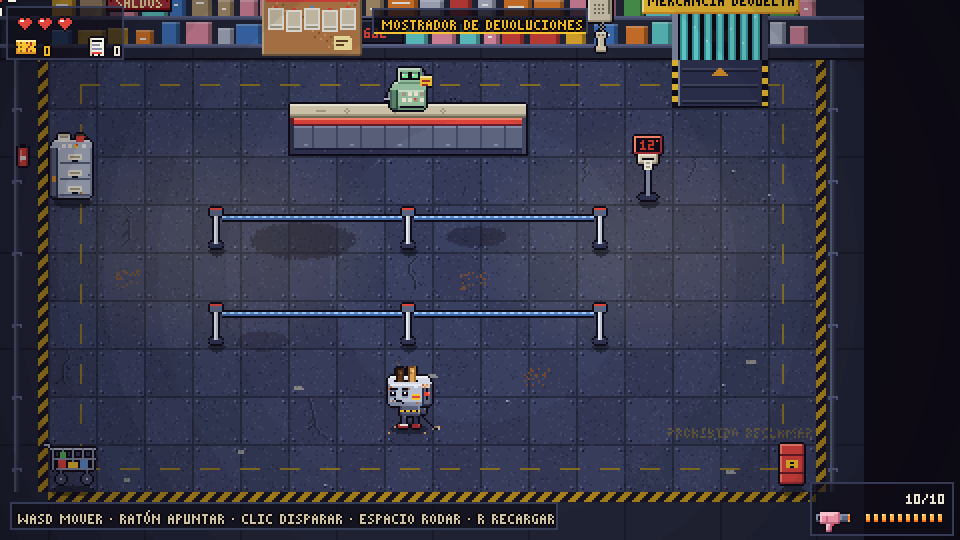
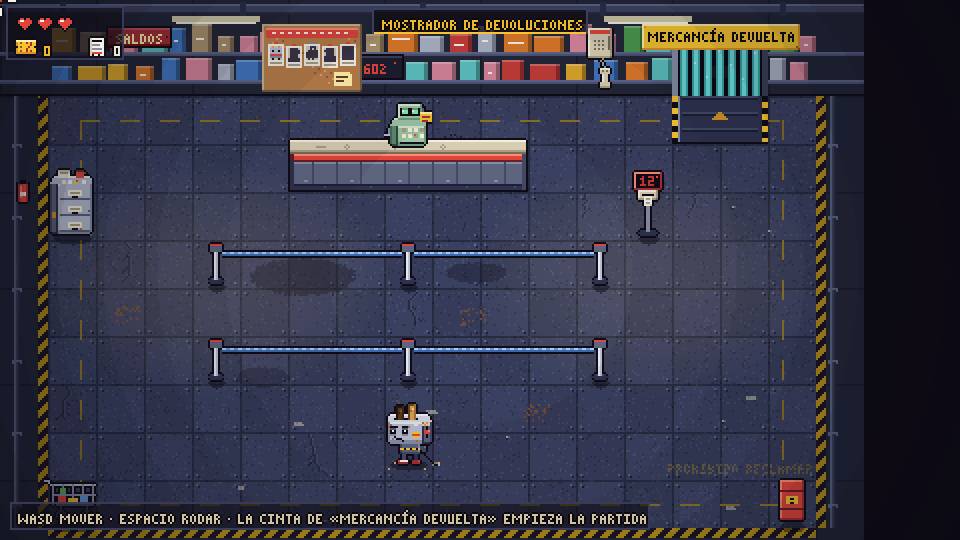
M9 (8): repaso del Mostrador (cámara arriba, sin munición, ayuda propia, el bot lo cruza); M9 terminado
Claude-Session: https://claude.ai/code/session_01LyCe1Q6iHwzEQqgL4r5GuZ

diff --git a/src/sim/bot.ts b/src/sim/bot.ts
@@ -2,7 +2,8 @@
 // Used by `npm run bot` and by tests to measure balance and detect hangs.
 import { Rng } from './rng.ts';
 import { ACTIVE_ITEMS } from '../data/items.ts';
-import { FROST_FLAT, HAND_HEIGHT, isRolling, PLAYER_HURT_Y, type Input, type World } from './world.ts';
+import { checkInvariants, createWorld, DT, FROST_FLAT, HAND_HEIGHT, isRolling, leaveHub, NO_INPUT, nearStation, PLAYER_HURT_Y, step } from './world.ts';
+import type { Input, World } from './world.ts';
 import { isWallAt, TILE } from './room.ts';
 import { blockedTiles, clearLine, doorGoal, nextDoor, steer, type Point } from './nav.ts';
 
@@ -335,4 +336,58 @@ export class Bot {
       swap,
     };
   }
+}
+
+/** What happened when the bot crossed the Mostrador (see crossHub). */
+export interface HubCrossing {
+  /** The run that starts on the conveyor, or null if it never got there. */
+  run: World | null;
+  /** Stations stood at, in the order visited. */
+  visited: string[];
+  seconds: number;
+  errors: string[];
+}
+
+/**
+ * The bot goes round the Mostrador before a run, like a player would: it stands at every station
+ * (the standing ones from in front, the ones on the wall from below them), then walks onto the
+ * conveyor. Fails if it gets stuck, steps on the conveyor on the way, something shoots or an
+ * invariant breaks. The run it starts is the floor 1 of `seed` (as createWorld would make it).
+ */
+export function crossHub(seed: string, opts: { chatarrero?: boolean } = {}): HubCrossing {
+  const w = createWorld({ seed: 'mostrador', hub: { chatarrero: !!opts.chatarrero } });
+  const r = w.player.def.footRadius;
+  const blocked = blockedTiles(w, r);
+  const visited: string[] = [];
+  const errors: string[] = [];
+  const walk = (goal: Point, done: () => boolean, label: string): boolean => {
+    for (let i = 0; i < 20 / DT; i++) {
+      if (done()) return true;
+      const p = w.player;
+      const to = steer(w, goal, r, blocked);
+      const dx = to.x - p.x;
+      const dy = to.y - p.y;
+      const d = Math.hypot(dx, dy) || 1;
+      step(w, { ...NO_INPUT, moveX: dx / d, moveY: dy / d });
+      if (w.bullets.length > 0) errors.push('en el Mostrador sale una bala');
+      for (const e of checkInvariants(w)) errors.push(`Mostrador: ${e}`);
+      if (errors.length) return false;
+    }
+    errors.push(`el bot no llega a ${label} en el Mostrador (se queda en ${w.player.x.toFixed(0)},${w.player.y.toFixed(0)})`);
+    return false;
+  };
+  for (const st of w.room.stations) {
+    const standing = w.room.props.some((p) => p.x === st.x && p.y === st.y);
+    if (!walk({ x: st.x, y: standing ? st.y + 10 : st.y + 6 }, () => nearStation(w)?.kind === st.kind, st.kind)) break;
+    visited.push(st.kind);
+    if (w.leftHub) {
+      errors.push(`de camino a ${st.kind} el bot pisó la cinta`);
+      break;
+    }
+  }
+  const b = w.room.belt!;
+  if (!errors.length) walk({ x: b.x + b.w / 2, y: b.y + b.h / 2 }, () => w.leftHub, 'la cinta');
+  const run = errors.length ? null : leaveHub(w, seed);
+  if (!errors.length && !run) errors.push('la cinta no empieza la partida');
+  return { run, visited, seconds: w.tick * DT, errors };
 }

diff --git a/tools/bot.ts b/tools/bot.ts
@@ -2,7 +2,7 @@
 // exceptions, broken invariants, non-determinism or a bot that gets stuck for good.
 import { mkdirSync, writeFileSync } from 'node:fs';
 import { join } from 'node:path';
-import { Bot } from '../src/sim/bot.ts';
+import { Bot, crossHub } from '../src/sim/bot.ts';
 import { checkInvariants, createWorld, DT, frostSlow, nextFloor, step, worldHash, type World } from '../src/sim/world.ts';
 import { ROOT } from './lib/deps.ts';
 
@@ -54,6 +54,9 @@ export interface Floor2Report {
 
 export interface FloorReport {
   plantas: number;
+  /** Runs started from the Mostrador: the bot stands at every station, then takes the conveyor (%), and the mean seconds it takes. */
+  cruzaMostrador: number;
+  segundosMostrador: number;
   planta2?: Floor2Report;
   /** Floors whose every room (but the secret one) the bot walks into, with nothing able to hurt it: must be 100 %. */
   recorridoSinDanio: number;
@@ -388,6 +391,8 @@ export function runFloors(floors: number, maxSeconds = 600): { report: FloorRepo
   let cleared2 = 0;
   let hurts2 = 0;
   const rooms2: number[] = [];
+  let crossed = 0;
+  let hubT = 0;
   for (let i = 0; i < floors; i++) {
     const a = playFloor(`planta-${i}`, maxSeconds, true);
     if (a.explored) walked++;
@@ -398,7 +403,16 @@ export function runFloors(floors: number, maxSeconds = 600): { report: FloorRepo
       errors.push(...a2.errors);
     }
     walkT += a.seconds;
-    const b = playFloor(`planta-${i}`, maxSeconds, false, true);
+    // The whole run starts in the Mostrador, as in the game (half of them with the Chatarrero there).
+    const hub = crossHub(`planta-${i}`, { chatarrero: i % 2 === 1 });
+    if (hub.errors.length) {
+      failed++;
+      errors.push(...hub.errors);
+    } else {
+      crossed++;
+      hubT += hub.seconds;
+    }
+    const b = playFloor(`planta-${i}`, maxSeconds, false, true, 1, hub.run ?? undefined);
     if (b.won) {
       won++;
       wonT += b.seconds;
@@ -467,6 +481,8 @@ export function runFloors(floors: number, maxSeconds = 600): { report: FloorRepo
   return {
     report: {
       plantas: floors,
+      cruzaMostrador: pct(crossed),
+      segundosMostrador: crossed ? one(hubT / crossed) : 0,
       planta2,
       recorridoSinDanio: pct(walked),
       segundosRecorrido: one(walkT / floors),
@@ -593,6 +609,7 @@ if (import.meta.main) {
         `el ${pl.conActivo} % con objeto activo, ${pl.usosActivo} usos por planta · el ${pl.conSinergia} % con alguna sinergia · ${pl.tickets} tickets y ${pl.cofres} cofres abiertos por planta · ` +
         `compra ${pl.compras} cosas en la tienda (${pl.gastoTienda} cupones) por planta`,
     );
+    console.log(`Mostrador · el bot pasa por todo y coge la cinta en el ${pl.cruzaMostrador} % de las partidas, en ${pl.segundosMostrador} s`);
   }
   const p2 = pl.planta2;
   if (pl.plantas && p2) {

diff --git a/tests/textos.test.ts b/tests/textos.test.ts
@@ -10,6 +10,9 @@ import { ROOMS } from '../src/data/rooms.ts';
 import { DUMMIES, PROPS } from '../src/data/props.ts';
 import { CHARACTERS } from '../src/data/characters.ts';
 import { GOOD_NAMES, SHOPKEEPER } from '../src/data/shop.ts';
+import { CAJA, CHATARRERO, TELEFONO, TURNOS } from '../src/data/dialogues.ts';
+import { LORE } from '../src/data/lore.ts';
+import { ROSTER } from '../src/data/unlocks.ts';
 import { FONT_CHARS, fontText } from '../src/art/font.ts';
 
 /** Every string inside a value (objects and arrays, not functions). */
@@ -34,7 +37,9 @@ function fields(v: unknown, out: string[] = []): string[] {
 }
 
 const content = [ITEMS, ACTIVE_ITEMS, WEAPONS, SYNERGIES, ENEMIES, ROOMS, PROPS, DUMMIES, CHARACTERS];
-const BASE = [...strings(Object.fromEntries(Object.entries(TEXTS).filter(([, v]) => typeof v !== 'function'))), ...strings(SHOPKEEPER), ...strings(GOOD_NAMES), ...content.flatMap((c) => fields(c))];
+const BASE = [...strings(Object.fromEntries(Object.entries(TEXTS).filter(([, v]) => typeof v !== 'function'))), ...strings(SHOPKEEPER), ...strings(GOOD_NAMES), ...content.flatMap((c) => fields(c)),
+  // The Mostrador (M9): what its NPCs say, the story documents and the board.
+  ...strings([CAJA, TELEFONO, TURNOS, CHATARRERO]), ...LORE.flatMap((l) => [l.title, ...l.pages]), ...ROSTER.flatMap((r) => [r.blurb, r.conditionText])];
 
 // The texts built by functions, with sample values.
 const ALL = [
@@ -88,11 +93,15 @@ test('variado: no se repite el mismo chiste en dos sitios', () => {
     TEXTS.OPTIONS_TITLE, TEXTS.CONTROLS_TITLE, TEXTS.INVENTORY_TITLE, TEXTS.CREDITS_TITLE, TEXTS.TITLE, TEXTS.DOWN_UNIT,
     'La Nevera Suprema',
     'El Router del Wifi',
+    // The Mostrador's NPCs are also its props.
+    'Caja de Devoluciones',
+    'El Chatarrero',
     // Key names and actions: the controls screen and Opciones › Teclas use the same words.
     ...Object.values(TEXTS.KEYS_ACTIONS), ...Object.values(TEXTS.DEFAULT_KEY_WORDS).flatMap((w) => [w.own, w.all]),
   ]);
   // Only the written texts: the function-built ones quote them on purpose.
-  for (const s of BASE) if (s.length > 12 && !shared.has(s)) seen.set(s, (seen.get(s) ?? 0) + 1);
+  // (Ids in the dialogue data, like «nevera-suprema», are not visible.)
+  for (const s of BASE) if (s.length > 12 && !shared.has(s) && !/^[a-z0-9-]+$/.test(s)) seen.set(s, (seen.get(s) ?? 0) + 1);
   const twice = [...seen].filter(([, n]) => n > 1).map(([s]) => s);
   assert.deepEqual(twice, []);
   // The same stock phrase («es muy importante para nosotros») only once.

diff --git a/tests/mostrador.test.ts b/tests/mostrador.test.ts
@@ -1,9 +1,12 @@
 import { test } from 'node:test';
 import assert from 'node:assert/strict';
-import { FONT_CHARS, fontText } from '../src/art/font.ts';
+import { FONT_CHARS, fontText, textWidth } from '../src/art/font.ts';
+import { DEFAULT_KEY_WORDS, hubHint } from '../src/data/texts.ts';
+import { HUD_W, hudLayout } from '../src/render/hud.ts';
 import { HUB, ROOMS, templatesOf } from '../src/data/rooms.ts';
 import { PROPS } from '../src/data/props.ts';
 import { steer } from '../src/sim/nav.ts';
+import { crossHub } from '../src/sim/bot.ts';
 import type { StationKind } from '../src/sim/room.ts';
 import { WALL_BOARD_Y, WALL_PHONE_Y, WALL_SIGN_Y } from '../src/art/hub.ts';
 import { checkInvariants, createWorld, DT, leaveHub, NO_INPUT, nearStation, onBelt, step, worldHash } from '../src/sim/world.ts';
@@ -191,4 +194,24 @@ test('cada cosa del Mostrador tiene su sprite, y lo que cuelga cabe en la pared 
   assert.ok(WALL_SIGN_Y + sheets['cartel-mercancia']!.frameH <= curtainTop + sheets.cortinas!.frameH / 3, 'el cartel tapa las cortinas');
   for (const [k, y] of [['tablon', WALL_BOARD_Y], ['telefono', WALL_PHONE_Y]] as const) assert.ok(y + sheets[k]!.frameH <= 48, `${k} se sale de la pared`);
   assert.ok(b.x + b.w / 2 + sheets['cartel-mercancia']!.frameW / 2 <= w.room.w - 24, 'el cartel se sale por la derecha');
+});
+
+test('el bot cruza el Mostrador: pasa por cada cosa y la cinta le lleva a la planta 1 de su semilla', () => {
+  for (const chatarrero of [false, true]) {
+    const c = crossHub('cruce', { chatarrero });
+    assert.deepEqual(c.errors, []);
+    assert.equal(c.visited.length, chatarrero ? 6 : 5, `pasa por todo: ${c.visited.join(', ')}`);
+    assert.ok(c.run && c.run.floor && c.run.level === 1);
+    assert.equal(worldHash(c.run), worldHash(createWorld({ seed: 'cruce', floor: true, level: 1 })), 'la misma partida que sin pasar por el Mostrador');
+    assert.ok(c.seconds < 20, `tarda ${c.seconds} s`);
+  }
+});
+
+test('la ayuda del Mostrador no habla de disparar, se puede escribir y cabe', () => {
+  const h = hubHint(DEFAULT_KEY_WORDS);
+  assert.ok(!/dispar|recarg/i.test(h));
+  for (const ch of fontText(h)) assert.ok(ch === ' ' || FONT_CHARS.includes(ch), `«${ch}»`);
+  const l = hudLayout({ hearts: 3, coupons: 0, tickets: 0, hasActive: false, items: 0, magazine: 10, mapW: 0, mapH: 0, hint: fontText(h) });
+  assert.ok(l.hintBox && l.hintBox.x + l.hintBox.w <= HUD_W, 'la caja de la ayuda cabe');
+  for (const t of l.hintLines) assert.ok(t.x + textWidth(t.text) <= HUD_W - 2, `«${t.text}» se sale`);
 });

diff --git a/src/render/GameScene.ts b/src/render/GameScene.ts
@@ -28,6 +28,7 @@ import {
   REVIVE_LINE,
   TURBO_LINE,
   archiveHint,
+  hubHint,
   docFoundLine,
 } from '../data/texts.ts';
 import { BACK_WALL_ROWS, doorCells, isWallAt, TILE } from '../sim/room.ts';
@@ -3082,7 +3083,8 @@ export class GameScene extends Phaser.Scene {
 
   /** The controls hint, with the keys as they are now (Opciones › Teclas may have changed them). */
   refreshHint(): void {
-    this.hintText = fontText(controlsHint(keyWords()) + (this.world.room.kind === 'test' ? ` · ${TEST_ROOM_HINT}` : ''));
+    const kind = this.world.room.kind;
+    this.hintText = fontText(kind === 'hub' ? hubHint(keyWords()) : controlsHint(keyWords()) + (kind === 'test' ? ` · ${TEST_ROOM_HINT}` : ''));
   }
 
   /** Where everything on the HUD goes right now (see src/render/hud.ts). */
@@ -3134,7 +3136,8 @@ export class GameScene extends Phaser.Scene {
       g.lineStyle(1, 0x3a3f5c, 0.9 * alpha).strokeRect(b.x + 0.5, b.y + 0.5, b.w - 1, b.h - 1);
     };
     plate(l.status);
-    plate(l.weapon);
+    // In the Mostrador the gun is holstered: no gun, no ammo, no plate for them.
+    if (this.world.room.kind !== 'hub') plate(l.weapon);
     plate(l.itemsBox);
     plate(l.hintBox, this.hint[0]!.alpha);
   }
@@ -3235,6 +3238,8 @@ export class GameScene extends Phaser.Scene {
     this.ammoText.setY(l.ammoText.y);
     this.ammoText.setText(ws.reload > 0 ? fontText(RELOADING) : `${ws.ammo}/${ws.def.magazine}`);
     this.ammoText.setTint(ws.reload > 0 || ws.ammo === 0 ? 0xe0453b : 0xf4f1e8);
+    const holstered = this.world.room.kind === 'hub';
+    for (const o of [this.gunIcon, this.ammoText, ...this.ammoPips]) o.setAlpha(holstered ? 0 : 1);
     this.reloadBar.clear();
     if (ws.reload > 0) {
       const k = 1 - ws.reload / ws.def.reloadTime;
@@ -3288,6 +3293,9 @@ export class GameScene extends Phaser.Scene {
     const room = this.world.room;
     this.camX = Math.max(0, Math.min(room.w - VIEW_W, this.camX));
     this.camY = Math.max(0, Math.min(room.h - VIEW_H, this.camY));
+    // The Mostrador is only a little taller than the screen: the camera stays up, so what hangs on
+    // the back wall (the sign, the board, the phone) is always whole; its bottom row is the wall.
+    if (room.kind === 'hub') this.camY = 0;
     cam.setScroll(Math.round(this.camX), Math.round(this.camY));
   }
 }

diff --git a/src/data/texts.ts b/src/data/texts.ts
@@ -224,6 +224,8 @@ export const DEFAULT_KEY_WORDS: KeyWords = {
 /** The line of controls under the first room (and the test room's extra keys). */
 export const controlsHint = (k: KeyWords): string => `${k.move.own} mover · ratón apuntar · clic disparar · ${k.roll.own} rodar · ${k.reload.own} recargar`;
 export const CONTROLS_HINT = controlsHint(DEFAULT_KEY_WORDS);
+/** In the Mostrador nothing is shot: how to move, and where the run starts. */
+export const hubHint = (k: KeyWords): string => `${k.move.own} mover · ${k.roll.own} rodar · la cinta de «Mercancía devuelta» empieza la partida`;
 export const TEST_ROOM_HINT = '1-5 balas enemigas';
 /** Instead of the ammo count while reloading. */
 export const RELOADING = 'Recargando';

diff --git a/src/data/dialogues.ts b/src/data/dialogues.ts
@@ -133,8 +133,8 @@ export const TELEFONO = {
     {
       id: 'tel-0',
       pages: [
-        'Ha llamado al Servicio Técnico. Su llamada es muy importante para nosotros.',
-        'Por eso la vamos a escuchar más tarde. Mucho más tarde.',
+        'Ha llamado al Servicio Técnico. Su llamada ha sido clasificada como «no urgente».',
+        'Como todas. La escucharemos cuando acabe la clasificación. Empezó en 2011.',
         'Tiempo de espera estimado: un número que no cabe en esta pantalla.',
       ],
     },

diff --git a/docs/BITACORA.md b/docs/BITACORA.md
@@ -2,6 +2,27 @@
 
 La entrada más reciente va arriba. Cada sesión añade una.
 
+## 2026-10-30 08:00 — Hito M9 — Repaso del Mostrador; M9 terminado
+- Hecho: en el Mostrador la cámara se queda arriba (la sala solo es 18 px más alta que la pantalla
+  y su última fila es pared): el cartel, el tablón y el teléfono se ven enteros siempre. El arma va
+  enfundada también en el marcador: sin arma, munición ni su placa. La ayuda de abajo no habla de
+  disparar: «WASD mover · Espacio rodar · la cinta de «Mercancía devuelta» empieza la partida»
+  (`hubHint`). El test de textos repetidos mira ya los diálogos, los documentos y el tablón, y
+  encontró uno: el teléfono decía «su llamada es muy importante», como otro texto; ahora la llamada
+  «ha sido clasificada como “no urgente”. Como todas. La escucharemos cuando acabe la
+  clasificación. Empezó en 2011.» (2011, como el banco de pruebas del correo). El bot pasa por el
+  Mostrador antes de cada partida completa (`crossHub` en `src/sim/bot.ts`: se pone delante de cada
+  cosa y coge la cinta; falla si se atasca, si pisa la cinta antes de tiempo o si algo dispara) y
+  `npm run bot` lo cuenta. Tests nuevos en `tests/mostrador.test.ts`.
+- Decisiones: M9 se da por terminado: se cumplen todos sus criterios (se abre y se vuelve al
+  Mostrador; la partida empieza andando; los PNJs cambian según el perfil, con tests; el tablón y el
+  archivador enseñan lo que hay y lo que falta; todo se guarda en el navegador). El siguiente es M10.
+- Medidas: Mostrador cruzado en el 100 % de las partidas, en 9,4 s. El resto del bot, igual
+  (empezar desde la cinta da la misma partida que antes).
+- Problemas conocidos: el cartel con el nombre de la sala tapa un poco el teléfono los primeros
+  segundos.
+- Siguiente paso: M10, empezar por partir la planta 3 (Juguetería) en tareas y diseñarla.
+
 ## 2026-10-30 07:30 — Hito M9 — El documento de la sala secreta
 - Hecho: la sala secreta de cada planta guarda en el suelo, dos casillas delante de su pedestal, el
   documento de historia de esa planta (`placeStoryDoc`; recogida nueva `documento`, sprite nuevo:

diff --git a/docs/HOJA_DE_RUTA.md b/docs/HOJA_DE_RUTA.md
@@ -218,7 +218,7 @@ semillas distintas acaban con builds distintas.
     baja con un corazón y se gasta), y dos sinergias: Setup Gamer (Ratón + Ventilador) y
     Conflicto de Software (Antivirus + Actualización).
 
-## M9 · El centro y la historia
+## M9 · El centro y la historia (hecho)
 
 - [x] (0) El centro diseñado en `docs/DISENO.md` («El Mostrador de Devoluciones») y el hito partido en tareas.
 - Mostrador de Devoluciones como centro entre partidas. En partes:
@@ -262,7 +262,7 @@ semillas distintas acaban con builds distintas.
   - [x] (7) Documentos de historia en datos (uno por jefe vencido por primera vez y alguno en las
     salas secretas), guardados en `Profile` y leídos en el archivador «Reclamaciones sin
     Resolver» del centro.
-  - [ ] (8) Repaso del centro: que se lea, que los textos no se repitan y que el bot lo cruce.
+  - [x] (8) Repaso del centro: que se lea, que los textos no se repitan y que el bot lo cruce.
 
 **Criterios de aceptación:** al abrir el juego y al acabar cada partida se está en el Mostrador;
 desde él se empieza una partida andando; los tres PNJs dicen cosas distintas según el progreso
